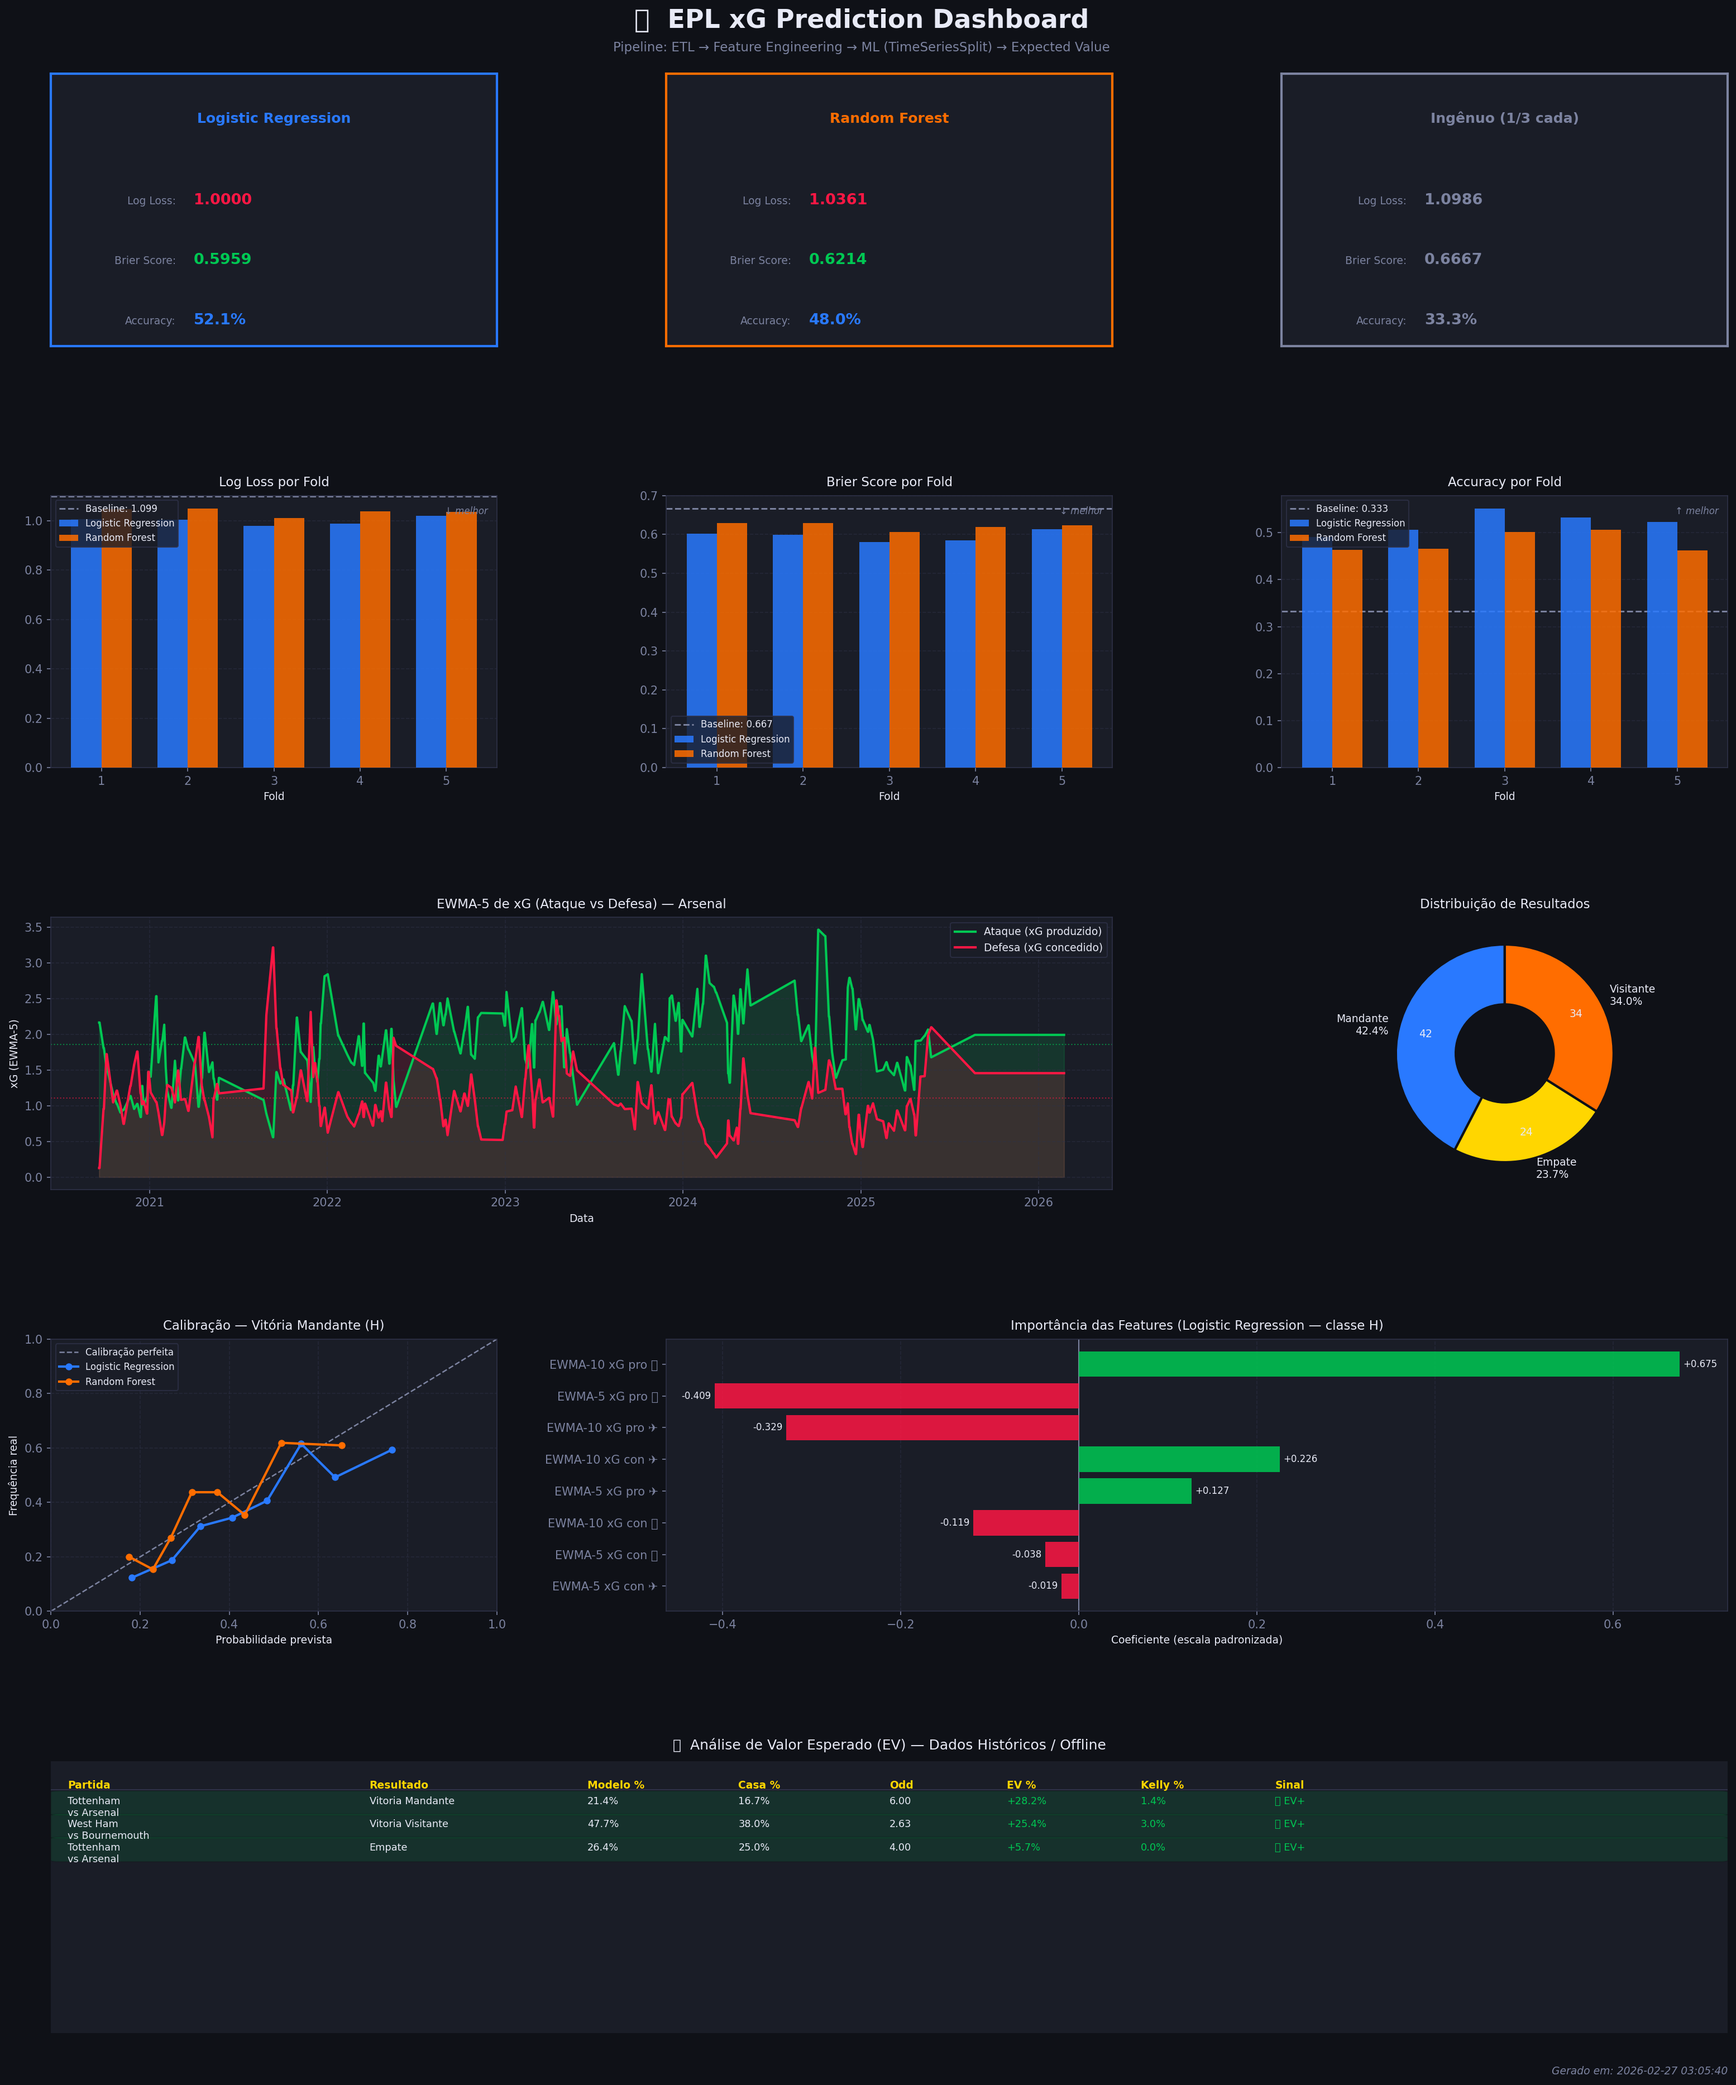
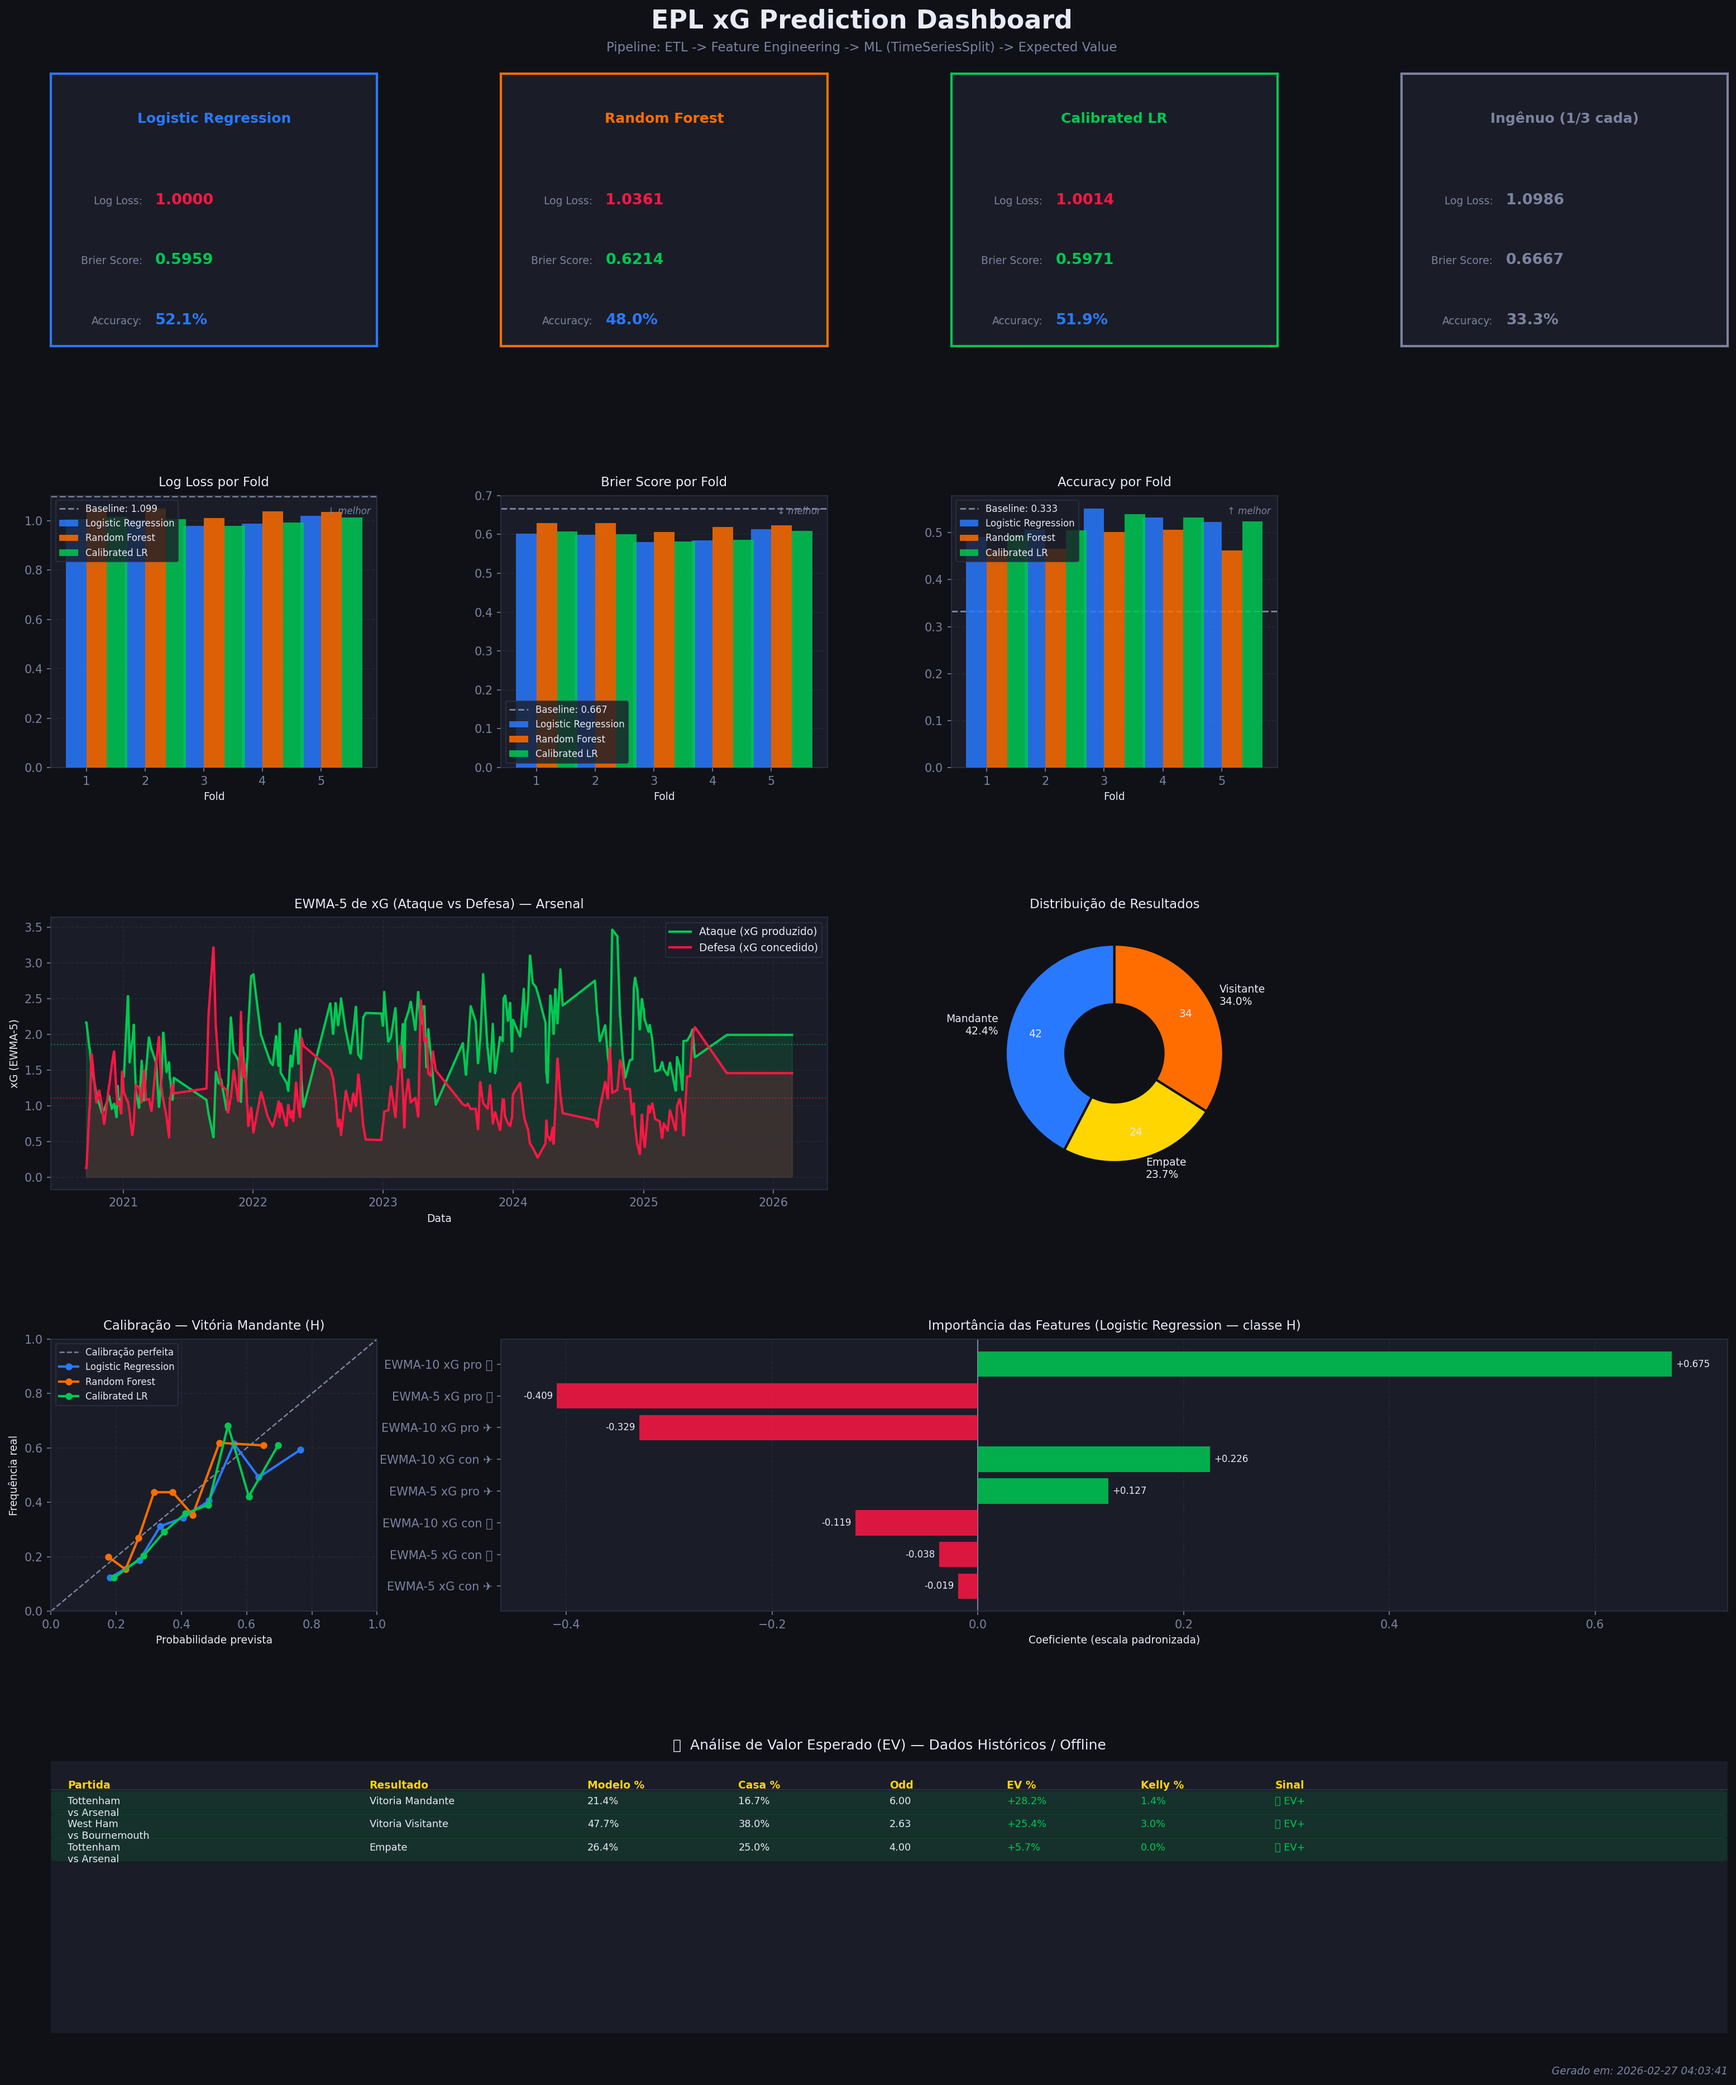
fix(dashboard): resolve UnicodeEncodeError and IndexError in visualization

diff --git a/runners/run_dashboard.py b/runners/run_dashboard.py
@@ -75,9 +75,9 @@ CLASSES = ["A", "D", "H"]
 # ═══════════════════════════════════════════════════════════════════════════════
 
 def run_etl(engine, Session) -> int:
-    logger.info("━" * 60)
-    logger.info("ETAPA 1 — ETL: Extração Híbrida (soccerdata + Understat)")
-    logger.info("━" * 60)
+    logger.info("=" * 60)
+    logger.info("ETAPA 1 - ETL: Extracao Hibrida (soccerdata + Understat)")
+    logger.info("=" * 60)
 
     extractor = DataExtractor()
     persister = DataPersister(Session)
@@ -99,9 +99,9 @@ def run_etl(engine, Session) -> int:
 # ═══════════════════════════════════════════════════════════════════════════════
 
 def load_ml_dataset(engine) -> pd.DataFrame:
-    logger.info("━" * 60)
-    logger.info("ETAPA 2 — Carregando dataset para ML")
-    logger.info("━" * 60)
+    logger.info("=" * 60)
+    logger.info("ETAPA 2 - Carregando dataset para ML")
+    logger.info("=" * 60)
 
     query = """
         SELECT m.id, m.date, m.home_team, m.away_team,
@@ -140,9 +140,9 @@ def multiclass_brier(y_true, y_prob):
 
 
 def run_training(df: pd.DataFrame, n_splits: int = 5):
-    logger.info("━" * 60)
-    logger.info("ETAPA 3 — Treinamento ML com TimeSeriesSplit")
-    logger.info("━" * 60)
+    logger.info("=" * 60)
+    logger.info("ETAPA 3 - Treinamento ML com TimeSeriesSplit")
+    logger.info("-" * 60)
 
     X = df[FEATURE_COLS].values
     y = df["target"].values
@@ -191,7 +191,7 @@ def run_training(df: pd.DataFrame, n_splits: int = 5):
                           "log_loss": ll, "brier": bs, "accuracy": acc})
 
             last_probs, last_true = y_prob, y_val
-            logger.info(f"  [{name}] Fold {fold_i} | Treino {len(train_idx):4d} → Val {len(val_idx):4d} | "
+            logger.info(f"  [{name}] Fold {fold_i} | Treino {len(train_idx):4d} -> Val {len(val_idx):4d} | "
                         f"LL={ll:.4f} BS={bs:.4f} Acc={acc:.3f}")
 
         calibration_data[name] = (last_true, last_probs)
@@ -205,9 +205,9 @@ def run_training(df: pd.DataFrame, n_splits: int = 5):
 # ═══════════════════════════════════════════════════════════════════════════════
 
 def run_ev_analysis():
-    logger.info("━" * 60)
-    logger.info("ETAPA 4 — Análise de Valor Esperado (EV)")
-    logger.info("━" * 60)
+    logger.info("-" * 60)
+    logger.info("ETAPA 4 - Analise de Valor Esperado (EV)")
+    logger.info("-" * 60)
 
     scanner = PregameScanner(db_path="sqlite:///understat_premier_league.db")
     value_bets = []
@@ -283,7 +283,7 @@ def build_dashboard(df_raw: pd.DataFrame, ml_results: dict,
     fig.patch.set_facecolor(CLR["bg"])
 
     gs = gridspec.GridSpec(
-        5, 3,
+        5, 4,  # Expandido para 4 colunas (3 modelos + 1 baseline)
         figure=fig,
         hspace=0.55,
         wspace=0.38,
@@ -291,11 +291,11 @@ def build_dashboard(df_raw: pd.DataFrame, ml_results: dict,
         left=0.06, right=0.97,
     )
 
-    # ── Título principal ──────────────────────────────────────────────────────
-    fig.text(0.5, 0.97, "⚽  EPL xG Prediction Dashboard",
+    # -- Titulo principal ------------------------------------------------------
+    fig.text(0.5, 0.97, "EPL xG Prediction Dashboard",
              ha="center", va="top", fontsize=22, fontweight="bold",
              color=CLR["text"])
-    fig.text(0.5, 0.955, "Pipeline: ETL → Feature Engineering → ML (TimeSeriesSplit) → Expected Value",
+    fig.text(0.5, 0.955, "Pipeline: ETL -> Feature Engineering -> ML (TimeSeriesSplit) -> Expected Value",
              ha="center", va="top", fontsize=11, color=CLR["subtext"])
              
     import datetime
@@ -304,7 +304,7 @@ def build_dashboard(df_raw: pd.DataFrame, ml_results: dict,
              ha="right", va="bottom", fontsize=9, color=CLR["subtext"], style="italic")
 
     model_names   = list(ml_results.keys())
-    model_colors  = [CLR["blue"], CLR["orange"]]
+    model_colors  = [CLR["blue"], CLR["orange"], CLR["green"], CLR["purple"]]
     baseline_vals = {"log_loss": 1.0986, "brier": 0.6667, "accuracy": 0.333}
 
     # ══════════════════════════════════════════════════════════════════════════
@@ -628,9 +628,9 @@ def main():
     df_ev, is_live_data = run_ev_analysis()
 
     # 5. Dashboard
-    logger.info("━" * 60)
-    logger.info("ETAPA 5 — Gerando Dashboard")
-    logger.info("━" * 60)
+    logger.info("-" * 60)
+    logger.info("ETAPA 5 - Gerando Dashboard")
+    logger.info("-" * 60)
     build_dashboard(df, ml_results, calibration_data, df_ev, is_live_data)
 
 

diff --git a/src/data/extractor.py b/src/data/extractor.py
@@ -51,13 +51,17 @@ LEAGUE_MAPPING = {
 }
 
 DEFAULT_HEADERS = {
-    "User-Agent": (
-        "Mozilla/5.0 (Windows NT 10.0; Win64; x64) "
-        "AppleWebKit/537.36 (KHTML, like Gecko) "
-        "Chrome/120.0.0.0 Safari/537.36"
-    ),
-    "Accept": "text/html,application/xhtml+xml,application/xml;q=0.9,*/*;q=0.8",
+    "User-Agent": "Mozilla/5.0 (X11; Linux x86_64) AppleWebKit/537.36 (KHTML, like Gecko) Chrome/121.0.0.0 Safari/537.36",
+    "Accept": "text/html,application/xhtml+xml,application/xml;q=0.9,image/avif,image/webp,image/apng,*/*;q=0.8,application/signed-exchange;v=b3;q=0.7",
     "Accept-Language": "en-US,en;q=0.9",
+    "Accept-Encoding": "gzip, deflate, br",
+    "Connection": "keep-alive",
+    "Upgrade-Insecure-Requests": "1",
+    "Sec-Fetch-Dest": "document",
+    "Sec-Fetch-Mode": "navigate",
+    "Sec-Fetch-Site": "none",
+    "Sec-Fetch-User": "?1",
+    "Cache-Control": "max-age=0",
 }
 
 def _season_code(year: int) -> str:
@@ -160,11 +164,13 @@ class MatchHistoryReader:
 # ============================================================================
 
 class FBrefReader:
-    """Extrai xG do FBref via soccerdata para múltiplas ligas."""
+    """Extrai xG do FBref via soccerdata para multiplas ligas."""
 
     def read_leagues(self, start_year: int, end_year: int, fbref_leagues: list[str]) -> pd.DataFrame:
         """Busca temporadas para uma lista de ligas do FBref."""
         seasons_str = [_season_code(y) for y in range(start_year, end_year + 1)]
+        import time, random
+        time.sleep(random.uniform(1.0, 3.0)) # Atraso polido para evitar blocks
         logger.info(f"FBref: Coletando {fbref_leagues} para {seasons_str}")
         
         try:

diff --git a/src/main.py b/src/main.py
@@ -1,10 +1,10 @@
 import logging
 import sys
 
-from .extractor import DataExtractor
-from .feature_engineering import add_ewma_features
-from .models import create_tables, get_engine, get_session
-from .persistence import DataPersister, FeaturePersister
+from .data.extractor import DataExtractor
+from .data.feature_engineering import add_ewma_features
+from .data.models import create_tables, get_engine, get_session
+from .data.persistence import DataPersister, FeaturePersister
 
 # Configure logging
 logging.basicConfig(level=logging.INFO, format="%(asctime)s - %(name)s - %(levelname)s - %(message)s", handlers=[logging.StreamHandler(sys.stdout)])
